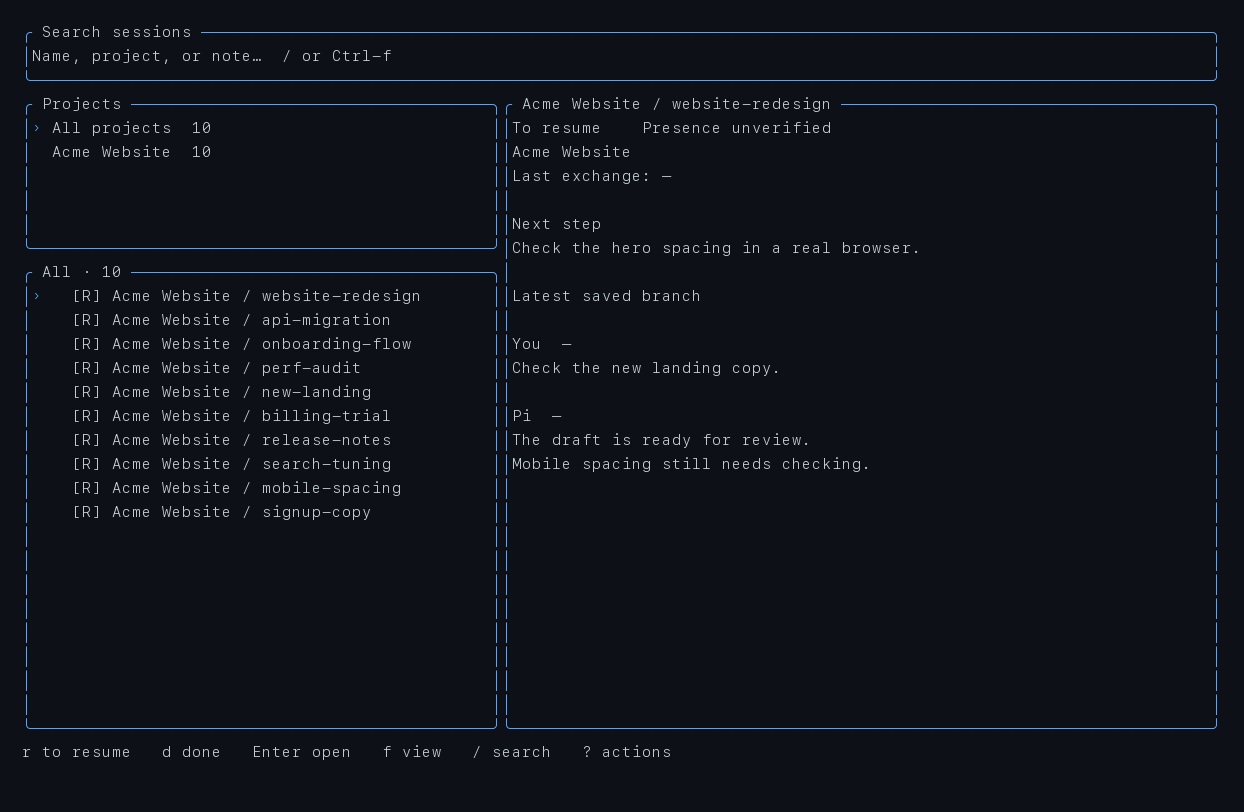
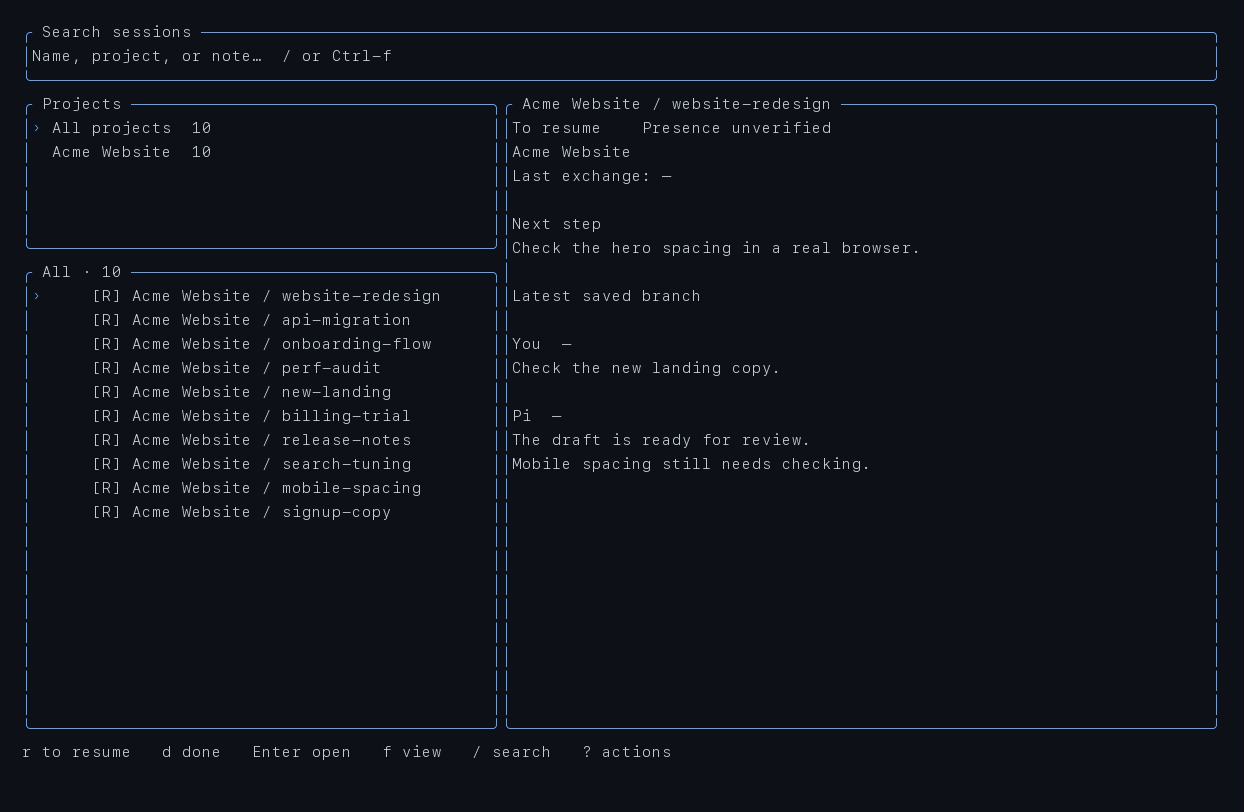
UI: bracket badges for open and probable panes ([O], [~])
Replaces the ●/≈ symbols with the same bracket language as [R]:
readable without color, no legend hunt. Detail panel, warnings,
tests, snapshots, docs and screenshot updated.

Changed region(s): [[0.0611, 0.3387, 0.336, 0.6466]]

diff --git a/src/ui/render.rs b/src/ui/render.rs
@@ -375,12 +375,15 @@ fn sessions(frame: &mut Frame, app: &App, area: Rect, theme: Theme) {
             .skip(offset)
             .take(height)
             .map(|s| {
+                // Badges, not symbols: [O] means a verified open pane,
+                // [~] a probable title/folder hint. Same visual language
+                // as [R], readable without color and without a legend hunt.
                 let mark = if !s.bindings.is_empty() {
-                    "● "
+                    "[O] "
                 } else if !s.probable.is_empty() {
-                    "≈ "
+                    "[~] "
                 } else {
-                    "  "
+                    "    "
                 };
                 let label = if app.project.is_none() {
                     format!(
@@ -502,7 +505,7 @@ fn detail(frame: &mut Frame, app: &App, area: Rect, theme: Theme) {
     if !session.probable.is_empty() {
         lines.push(Line::styled(
             format!(
-                "≈ {} probable pane(s) · Enter to choose",
+                "[~] {} probable pane(s) · Enter to choose",
                 session.probable.len()
             ),
             Style::new().fg(theme.warning),
@@ -682,6 +685,77 @@ mod tests {
         app
     }
     #[test]
+    fn open_and_probable_badges_use_brackets_like_resume() {
+        use crate::model::{ResumeState, View};
+        let mut app = fixture();
+        app.project = Some("/repo/acme-website".into());
+        app.view = View::All;
+        for session in &mut app.catalog.sessions {
+            session.state = ResumeState::History;
+        }
+        // A verified binding renders [O]; a passive hint renders [~].
+        // Neither depends on color, and neither looks like [R].
+        app.catalog.sessions[1].bindings = vec![Binding {
+            bridge: Bridge {
+                version: 1,
+                nonce: "n".into(),
+                generation: 1,
+                pid: 1,
+                process_start: "start".into(),
+                native_id: "native".into(),
+                file: None,
+                cwd: "/repo/acme-website".into(),
+                name: "api-migration".into(),
+                leaf: None,
+                socket: None,
+                pane: None,
+                seen: 0,
+            },
+            record: std::path::PathBuf::from("/tmp/record.json"),
+            pane: None,
+        }];
+        app.catalog.sessions[2].probable = vec![crate::tmux::PaneIdentity {
+            socket: "/fake/socket".into(),
+            server: "1".into(),
+            pane: "%1".into(),
+            pane_pid: 1,
+            pane_start: "start".into(),
+            client_pid: 2,
+            client_start: "start".into(),
+            target: "project:1.0".into(),
+            session: "project".into(),
+            window: "1".into(),
+            cwd: "/repo/acme-website".into(),
+            command: "pi".into(),
+            title: "hint".into(),
+            provider: Some(Provider::Pi),
+        }];
+        app.no_color = true;
+        app.refresh_filter();
+        let mut terminal = Terminal::new(ratatui::backend::TestBackend::new(120, 32)).unwrap();
+        terminal.draw(|f| draw(f, &app)).unwrap();
+        let text = terminal
+            .backend()
+            .buffer()
+            .content()
+            .iter()
+            .map(|c| c.symbol())
+            .collect::<String>();
+        let open_row = text
+            .lines()
+            .find(|line| line.contains("api-migration"))
+            .unwrap();
+        let probable_row = text
+            .lines()
+            .find(|line| line.contains("onboarding-flow"))
+            .unwrap();
+        assert!(open_row.contains("[O]"));
+        assert!(!open_row.contains("[R]"));
+        assert!(probable_row.contains("[~]"));
+        assert!(!probable_row.contains("[R]"));
+        assert!(!text.contains('●') && !text.contains('≈'));
+    }
+    #[test]
     fn resume_badge_is_independent_of_presence_and_visible_without_color() {
         use crate::model::{ResumeState, View};
         let mut app = fixture();
@@ -707,7 +781,7 @@ mod tests {
                 .find(|line| line.contains("website-redesign") && line.contains(badge))
                 .unwrap();
             assert!(row.contains(badge));
-            assert!(!row.contains('≈') && !row.contains('●'));
+            assert!(!row.contains("[~]") && !row.contains("[O]"));
             for name in ["release-notes", "api-migration"] {
                 assert!(
                     !lines

diff --git a/src/service.rs b/src/service.rs
@@ -191,7 +191,8 @@ impl Service {
             }
         }
         if tmux::unreported_pi(&bindings.iter().map(|b| b.bridge.pid).collect::<Vec<_>>())? > 0 {
-            warnings.push("Some Pi runs have no extension: probable openings are marked ≈".into());
+            warnings
+                .push("Some Pi runs have no extension: probable openings are marked [~]".into());
         }
         let mut sessions = self.store.list()?;
         for session in &mut sessions {

diff --git a/README.md b/README.md
@@ -35,8 +35,8 @@ indexing and an optional presence extension), Claude, Codex, and Opencode
 - **Resume-oriented workflow.** Sessions carry an explicit state — history,
   to-resume, or done — plus a short next-step note. States are user
   decisions; activity or idleness never changes them implicitly.
-- **Live pane awareness.** Verified extension records (`●`) and passive
-  title/folder hints (`≈`) distinguish proven openings from guesses.
+- **Live pane awareness.** Verified extension records (`[O]`) and passive
+  title/folder hints (`[~]`) distinguish proven openings from guesses.
   Duplicate names are never associated arbitrarily.
 - **Safe resume.** Reopening a closed session uses exact argv
   (`<agent> --session <file>`) in the project directory, preferring a new
@@ -121,7 +121,7 @@ in scripts) and revalidates identity, folder, and presence before launch.
 ## Optional presence extension
 
 Pane matching works without installation (exact title + folder ⇒ probable
-`≈`). For proven identity (`●`), including across in-process session
+`[~]`). For proven identity (`[O]`), including across in-process session
 switches, install the bundled Pi extension:
 
 ```sh
